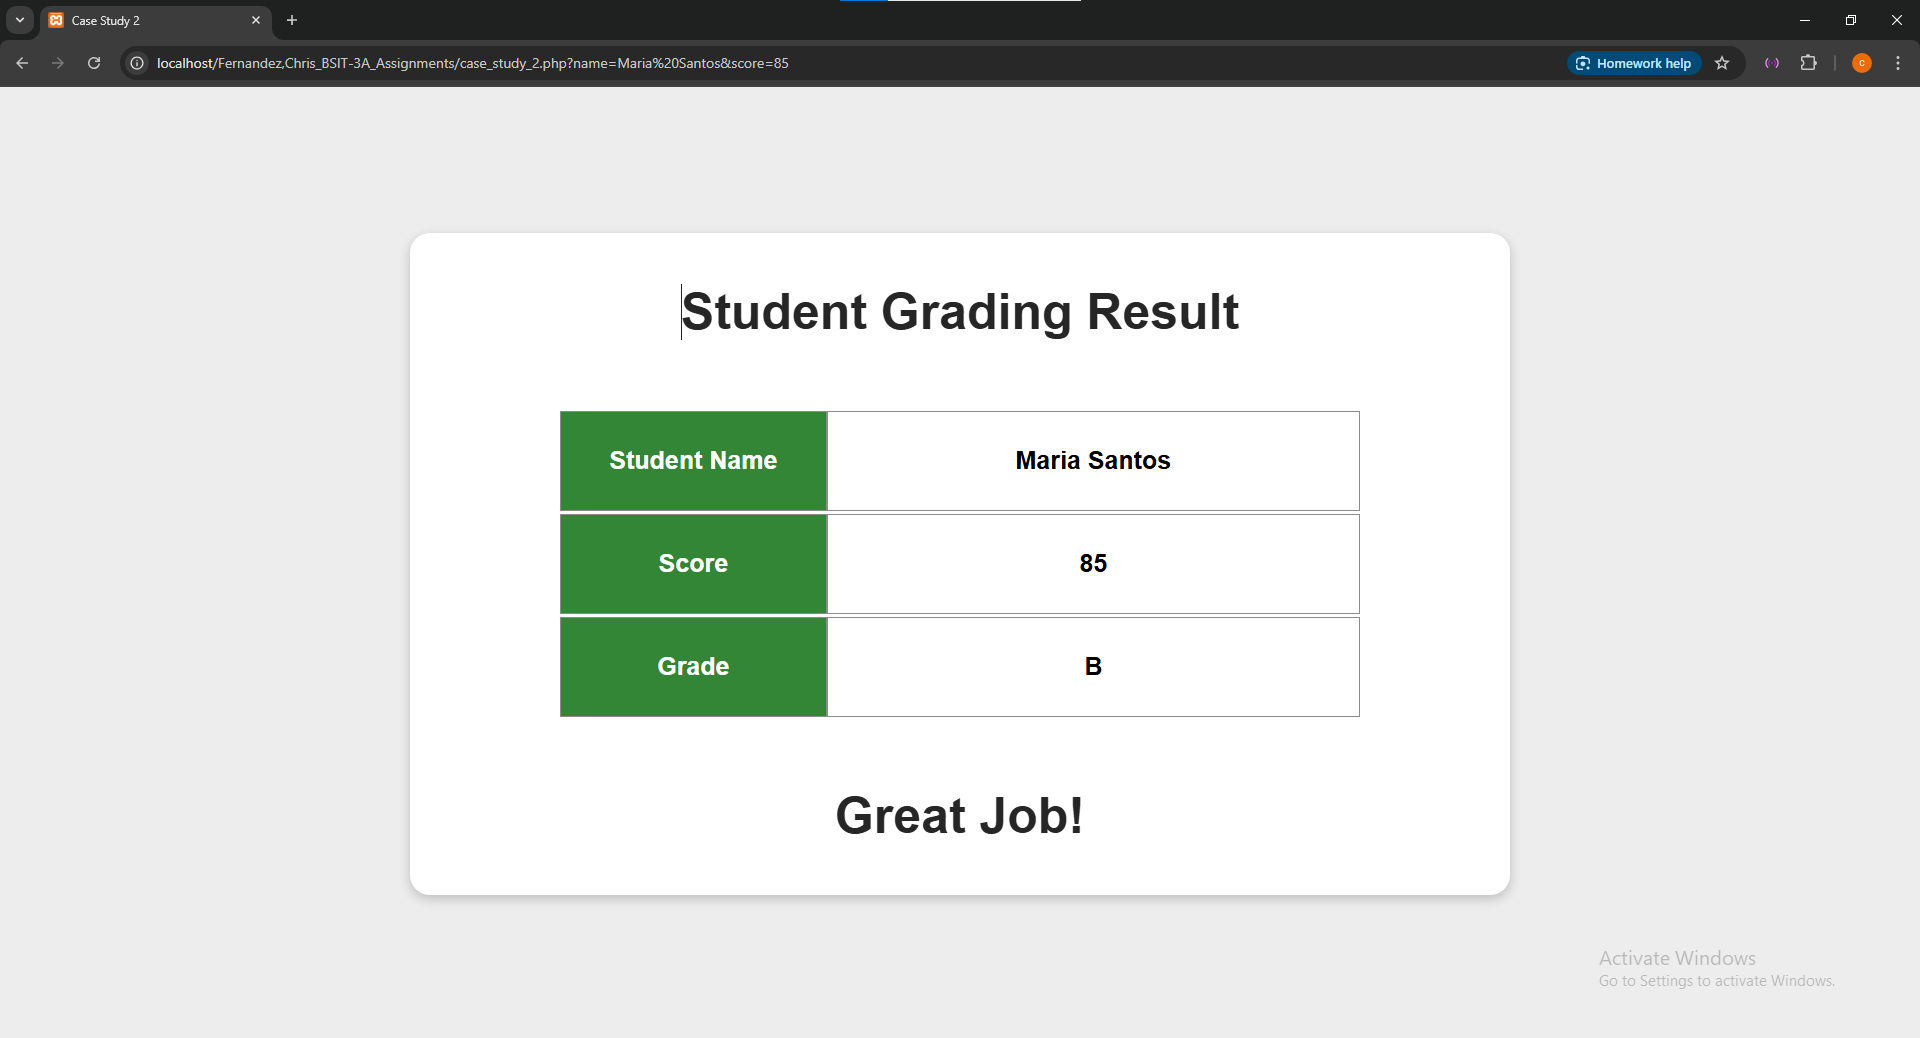
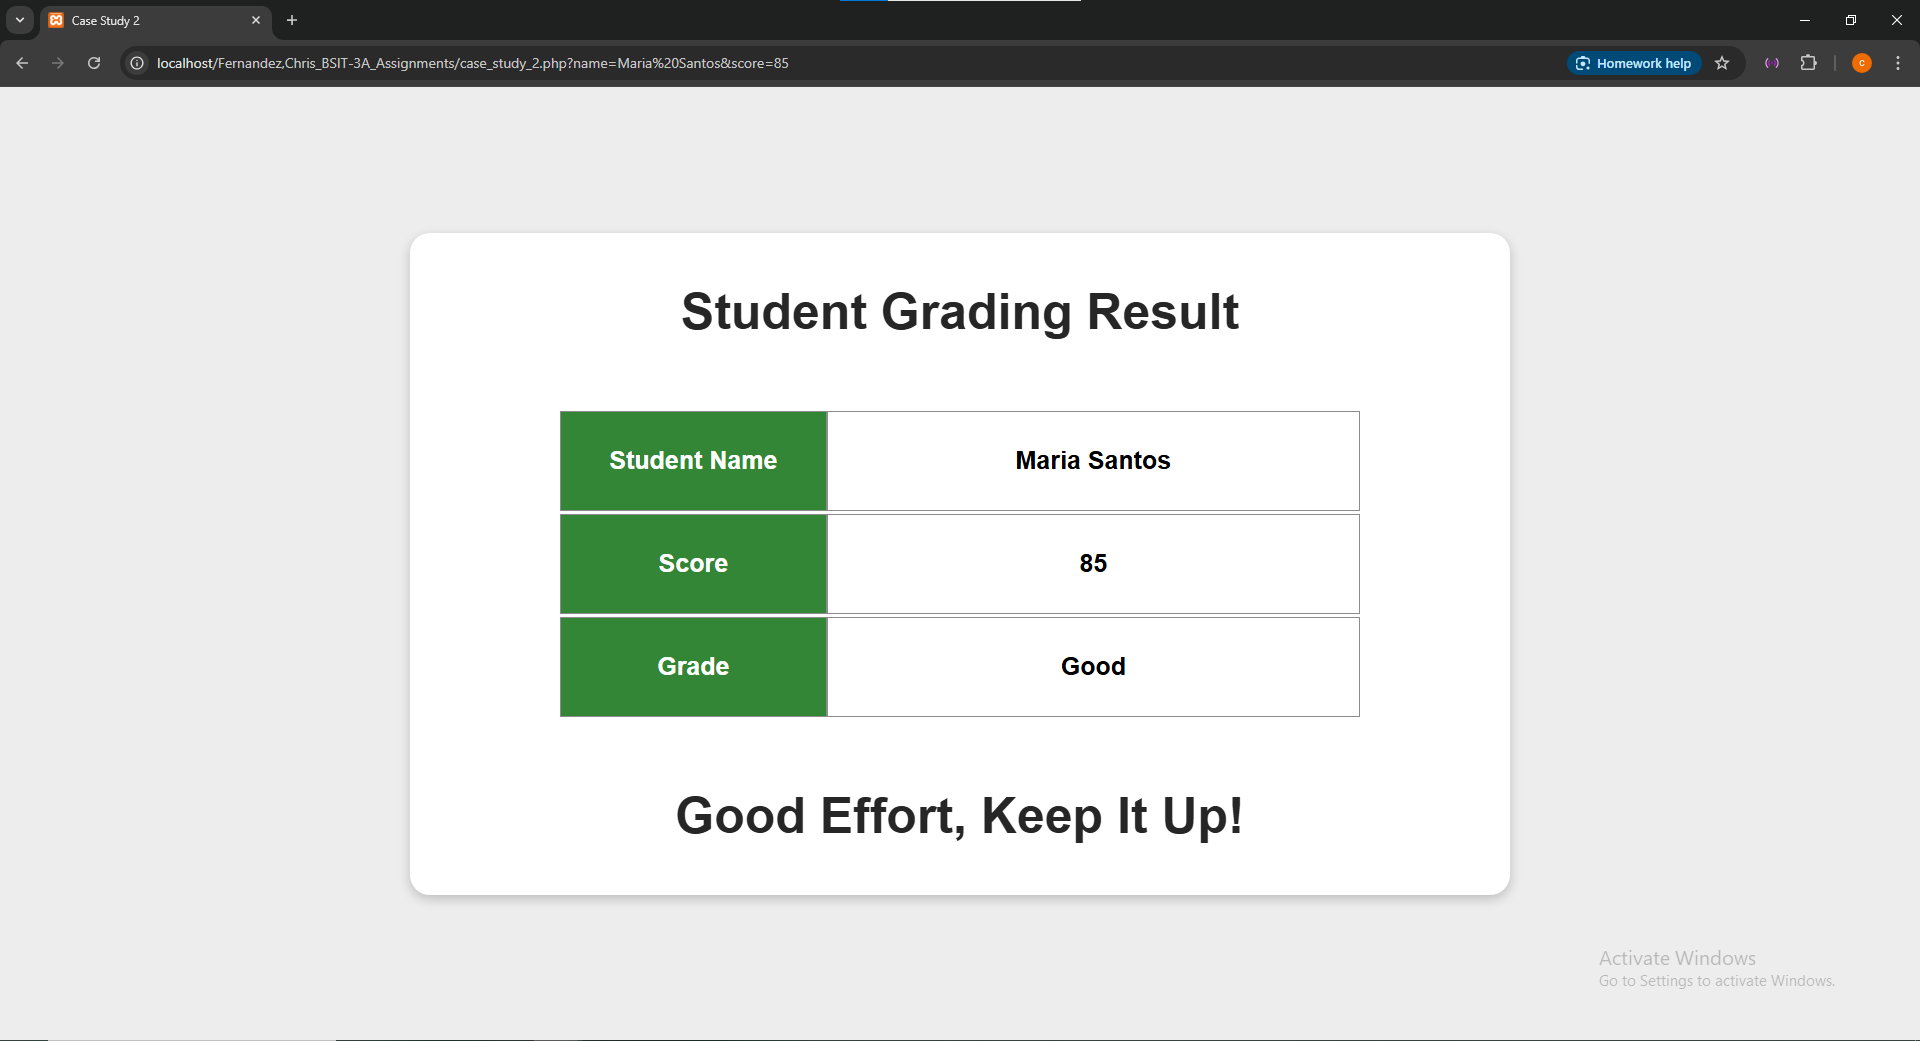
updated case study 2

diff --git a/case_study_2.php b/case_study_2.php
@@ -5,25 +5,29 @@
   $grade = null;
   $remarks = null;
   
-  if ($score >= 90) {
-    $grade = "A";
+  if ($score >= 95 && $score <= 100) {
+    $grade = "Excellent";
     $remarks = "Outstanding Performance!";
   } 
-  else if ($score >= 80) {  
-      $grade = "B";
+  else if ($score >= 90 && $score <= 94) {  
+      $grade = "Very Good";
       $remarks = "Great Job!";
   } 
-  else if ($score >= 75) {  
-      $grade = "C";
+  else if ($score >= 85 && $score <= 89) {  
+      $grade = "Good";
       $remarks = "Good Effort, Keep It Up!";
   } 
-  else if ($score >= 70) {  
-      $grade = "D";
+  else if ($score >= 75 && $score <= 84) {  
+      $grade = "Needs Improvement";
       $remarks = "Work harder next time.";
   } 
-  else {
-      $grade = "F";
+  else if($score < 75 && $score >= 0){
+      $grade = "Failed";
       $remarks = "You need to improve.";
+  }
+  else{
+    $grade = "Invalid";
+    $remarks = "Enter a valid score (0-100)";
   }
 ?>
 
